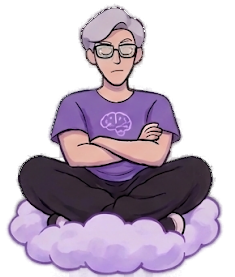
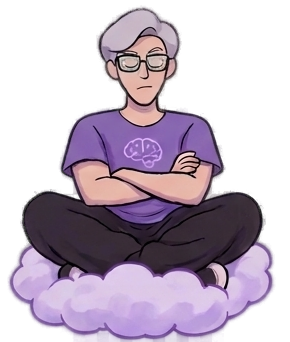
feat: add session exit and high-res jurors

diff --git a/src/App.tsx b/src/App.tsx
@@ -233,6 +233,10 @@ function App() {
 
   function finishSession() {
     manualRecognitionStop.current = true
+    if (advanceTimer.current) {
+      window.clearTimeout(advanceTimer.current)
+      advanceTimer.current = null
+    }
     recognitionRef.current?.stop()
     stopInputCapture()
     stopJurorAudio()
@@ -260,7 +264,7 @@ function App() {
     {stage === 'text-fallback' && <section className="text-screen"><div className="wordmark"><span>✦</span> GENIE <b>JURY</b></div><form onSubmit={submitTextPitch}><p>TYPE YOUR CASE</p><h2>What idea are you asking<br />the Jury to believe in?</h2><div className="mode-toggle">{(['Hackathon', 'Startup'] as const).map((item) => <button type="button" className={mode === item ? 'selected' : ''} onClick={() => setMode(item)} key={item}>{item} mode</button>)}</div><textarea value={pitch} onChange={(event) => setPitch(event.target.value)} /><button className="sun-button" type="submit">SUMMON THE JURY <i>→</i></button></form></section>}
 
     {['user-speaking', 'researching', 'juror-speaking', 'awaiting-answer'].includes(stage) && <section className="pitch-stage">
-      <div className="stage-top"><div className="wordmark"><span>✦</span> GENIE <b>JURY</b></div><span>{mode} MODE · {caseName}</span></div>
+      <div className="stage-top"><div className="wordmark"><span>✦</span> GENIE <b>JURY</b></div><div className="stage-actions"><span>{mode} MODE · {caseName}</span><button className="end-session" onClick={finishSession}>END SESSION</button></div></div>
       <JurySky activeIndex={stage === 'user-speaking' ? -1 : activeIndex} talkingIndex={stage === 'juror-speaking' ? activeIndex : -1} onJurorSelect={(index) => { if (stage !== 'user-speaking') { setActiveIndex(index); setStage('juror-speaking') } }} />
       <div className="voice-cue" aria-live="polite"><div className="cue-label"><span className={`live-dot ${stage === 'user-speaking' ? 'recording' : ''}`} />{stageStatus}<span className="connection-state">{connection === 'connected' ? 'CONNECTED' : connection === 'checking' ? 'CHECKING' : connection === 'demo-fallback' ? 'DEMO FALLBACK' : 'SERVICE UNAVAILABLE'}</span><button onClick={() => { stopJurorAudio(); setMuted((current) => !current) }} aria-label={muted ? 'Unmute jury voices' : 'Mute jury voices'}>{muted ? 'UNMUTE' : 'MUTE'}</button></div><div className="cue-body"><div className="wave" aria-hidden="true"><i /><i /><i /><i /><i /><i /><i /></div><p>{stageLine}</p>{stage === 'user-speaking' && <button className="end-pitch" onClick={endVoicePitch}>I’M DONE <i>→</i></button>}{stage === 'juror-speaking' && <button className="end-pitch" onClick={() => setStage('awaiting-answer')}>CONTINUE <i>→</i></button>}{stage === 'awaiting-answer' && <button className="end-pitch" onClick={advanceJury}>{activeIndex === 3 ? 'HEAR VERDICT' : 'NEXT JUROR'} <i>→</i></button>}</div></div>
     </section>}

diff --git a/src/App.css b/src/App.css
@@ -393,7 +393,12 @@
   top: 25px;
   z-index: 8;
 }
-.stage-top > span {
+.stage-actions {
+  align-items: center;
+  display: flex;
+  gap: 9px;
+}
+.stage-actions > span {
   background: #ffffff8c;
   border: 1px solid #5481a2;
   border-radius: 99px;
@@ -401,6 +406,21 @@
   font: 600 9px "DM Mono";
   letter-spacing: 0.09em;
   padding: 8px 12px;
+}
+.end-session {
+  background: #ffffffcf;
+  border: 1px solid #b85f39;
+  border-radius: 99px;
+  box-shadow: 0 2px 0 #b85f39;
+  color: #9d492c;
+  cursor: pointer;
+  font: 700 9px "DM Mono";
+  letter-spacing: 0.08em;
+  padding: 8px 11px;
+}
+.end-session:hover {
+  background: #fff0df;
+  transform: translateY(-1px);
 }
 .pitch-stage .jury-sky {
   inset: 0;

diff --git a/scripts/extract_jurors.py b/scripts/extract_jurors.py
@@ -13,14 +13,14 @@ from rembg import new_session, remove
 
 
 SPRITES = {
-    "ember-listening": (25, 96, 260, 370),
-    "tide-listening": (270, 95, 510, 370),
-    "gale-listening": (520, 93, 755, 370),
-    "volt-listening": (758, 102, 997, 370),
-    "ember-speaking": (28, 394, 258, 648),
-    "tide-speaking": (270, 394, 508, 648),
-    "gale-speaking": (522, 394, 756, 648),
-    "volt-speaking": (758, 394, 997, 648),
+    "ember-listening": (31, 119, 321, 457),
+    "tide-listening": (333, 117, 630, 457),
+    "gale-listening": (642, 115, 932, 457),
+    "volt-listening": (936, 126, 1230, 457),
+    "ember-speaking": (35, 486, 319, 800),
+    "tide-speaking": (333, 486, 627, 800),
+    "gale-speaking": (644, 486, 933, 800),
+    "volt-speaking": (936, 486, 1230, 800),
 }
 
 
